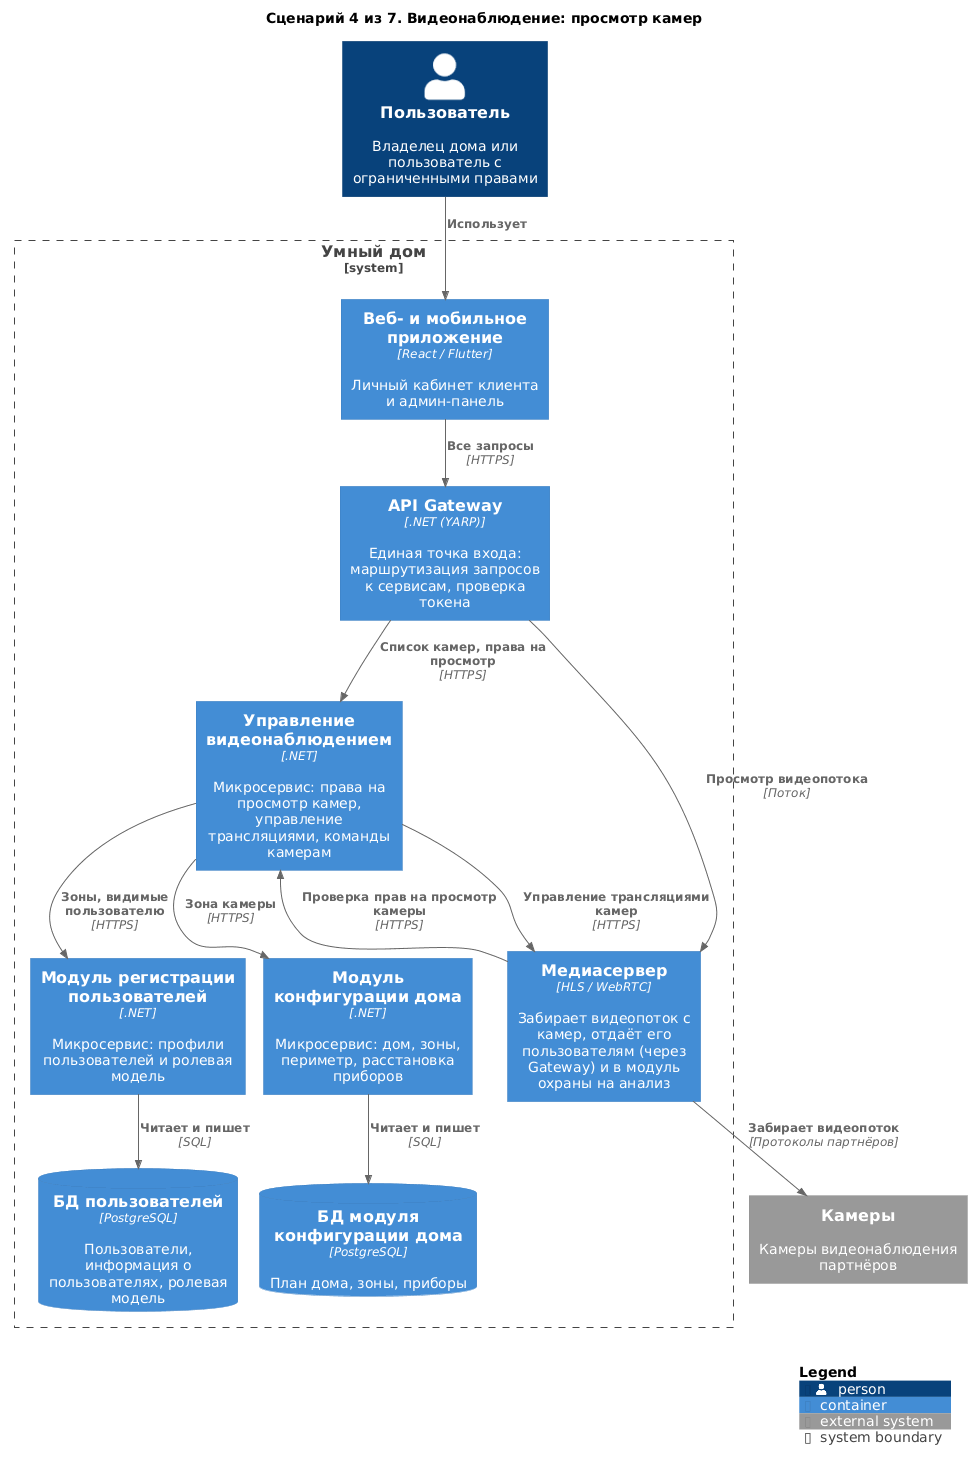
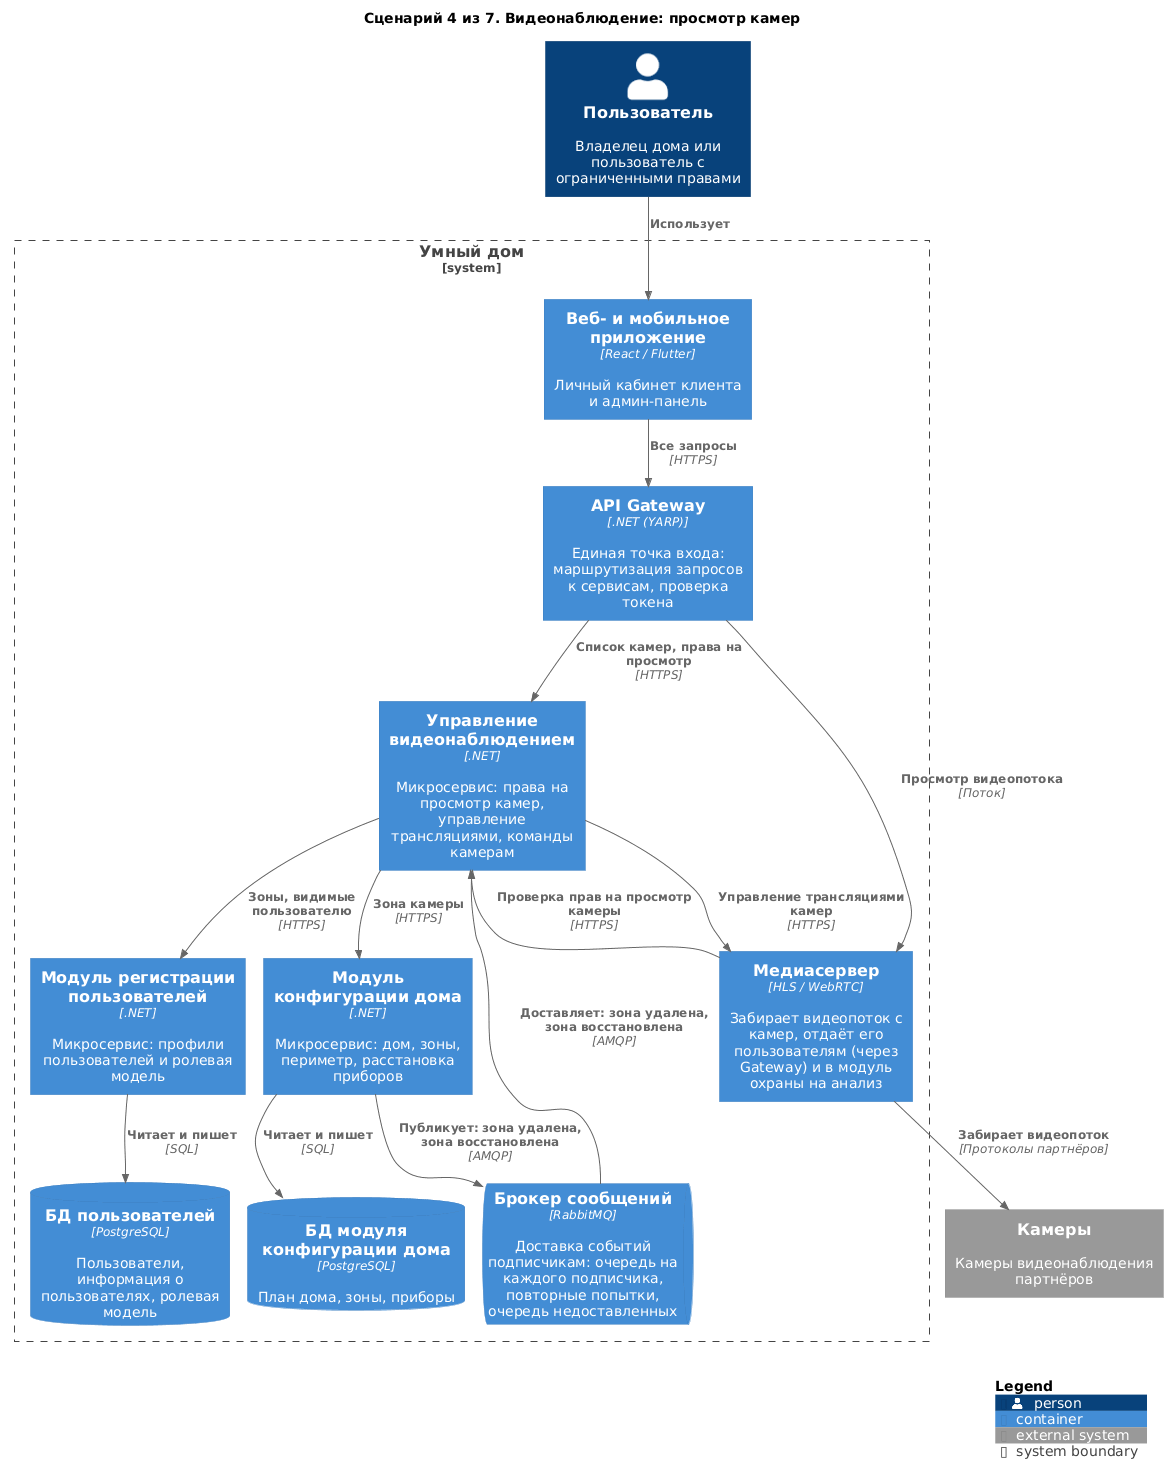
C4: компоненты модуля конфигурации дома, события зон через брокер, мягкое удаление в README

Changed region(s): [[0.0, 0.0, 1.0, 0.9184], [0.8008, 0.9184, 0.9856, 0.9796], [0.7392, 0.5204, 0.8932, 0.551]]

diff --git a/README.md b/README.md
@@ -162,7 +162,12 @@
       место и зону и признак «распределён / не распределён»;
       нераспределённые приборы показываются в блоке интерфейса
       «Новые приборы»; о новых и удалённых приборах узнаёт
-      от «Управления приборами»)
+      от «Управления приборами»; прибор и зона удаляются мягко:
+      помечаются как удалённые, исчезают с плана дома и из связей,
+      но хранят историческую информацию, и их можно восстановить;
+      об удалении и восстановлении зоны «Конструктор дома» публикует
+      события, на которые подписаны «Пользователи», «Охрана»,
+      «Отопление», «Видеонаблюдение» и «Автоматизация»)
 
 - Уведомления [generic]
     - Контекст: Рассылка уведомлений (получает события от «Управления
@@ -311,6 +316,12 @@
     ![Компоненты: Модуль регистрации пользователей](diagrams/components/users.png)
 
     Исходник: [users.puml](diagrams/components/users.puml)
+
+3. Модуль конфигурации дома
+
+    ![Компоненты: Модуль конфигурации дома](diagrams/components/house-configurator.png)
+
+    Исходник: [house-configurator.puml](diagrams/components/house-configurator.puml)
 
 **Диаграмма кода (Code)**
 
